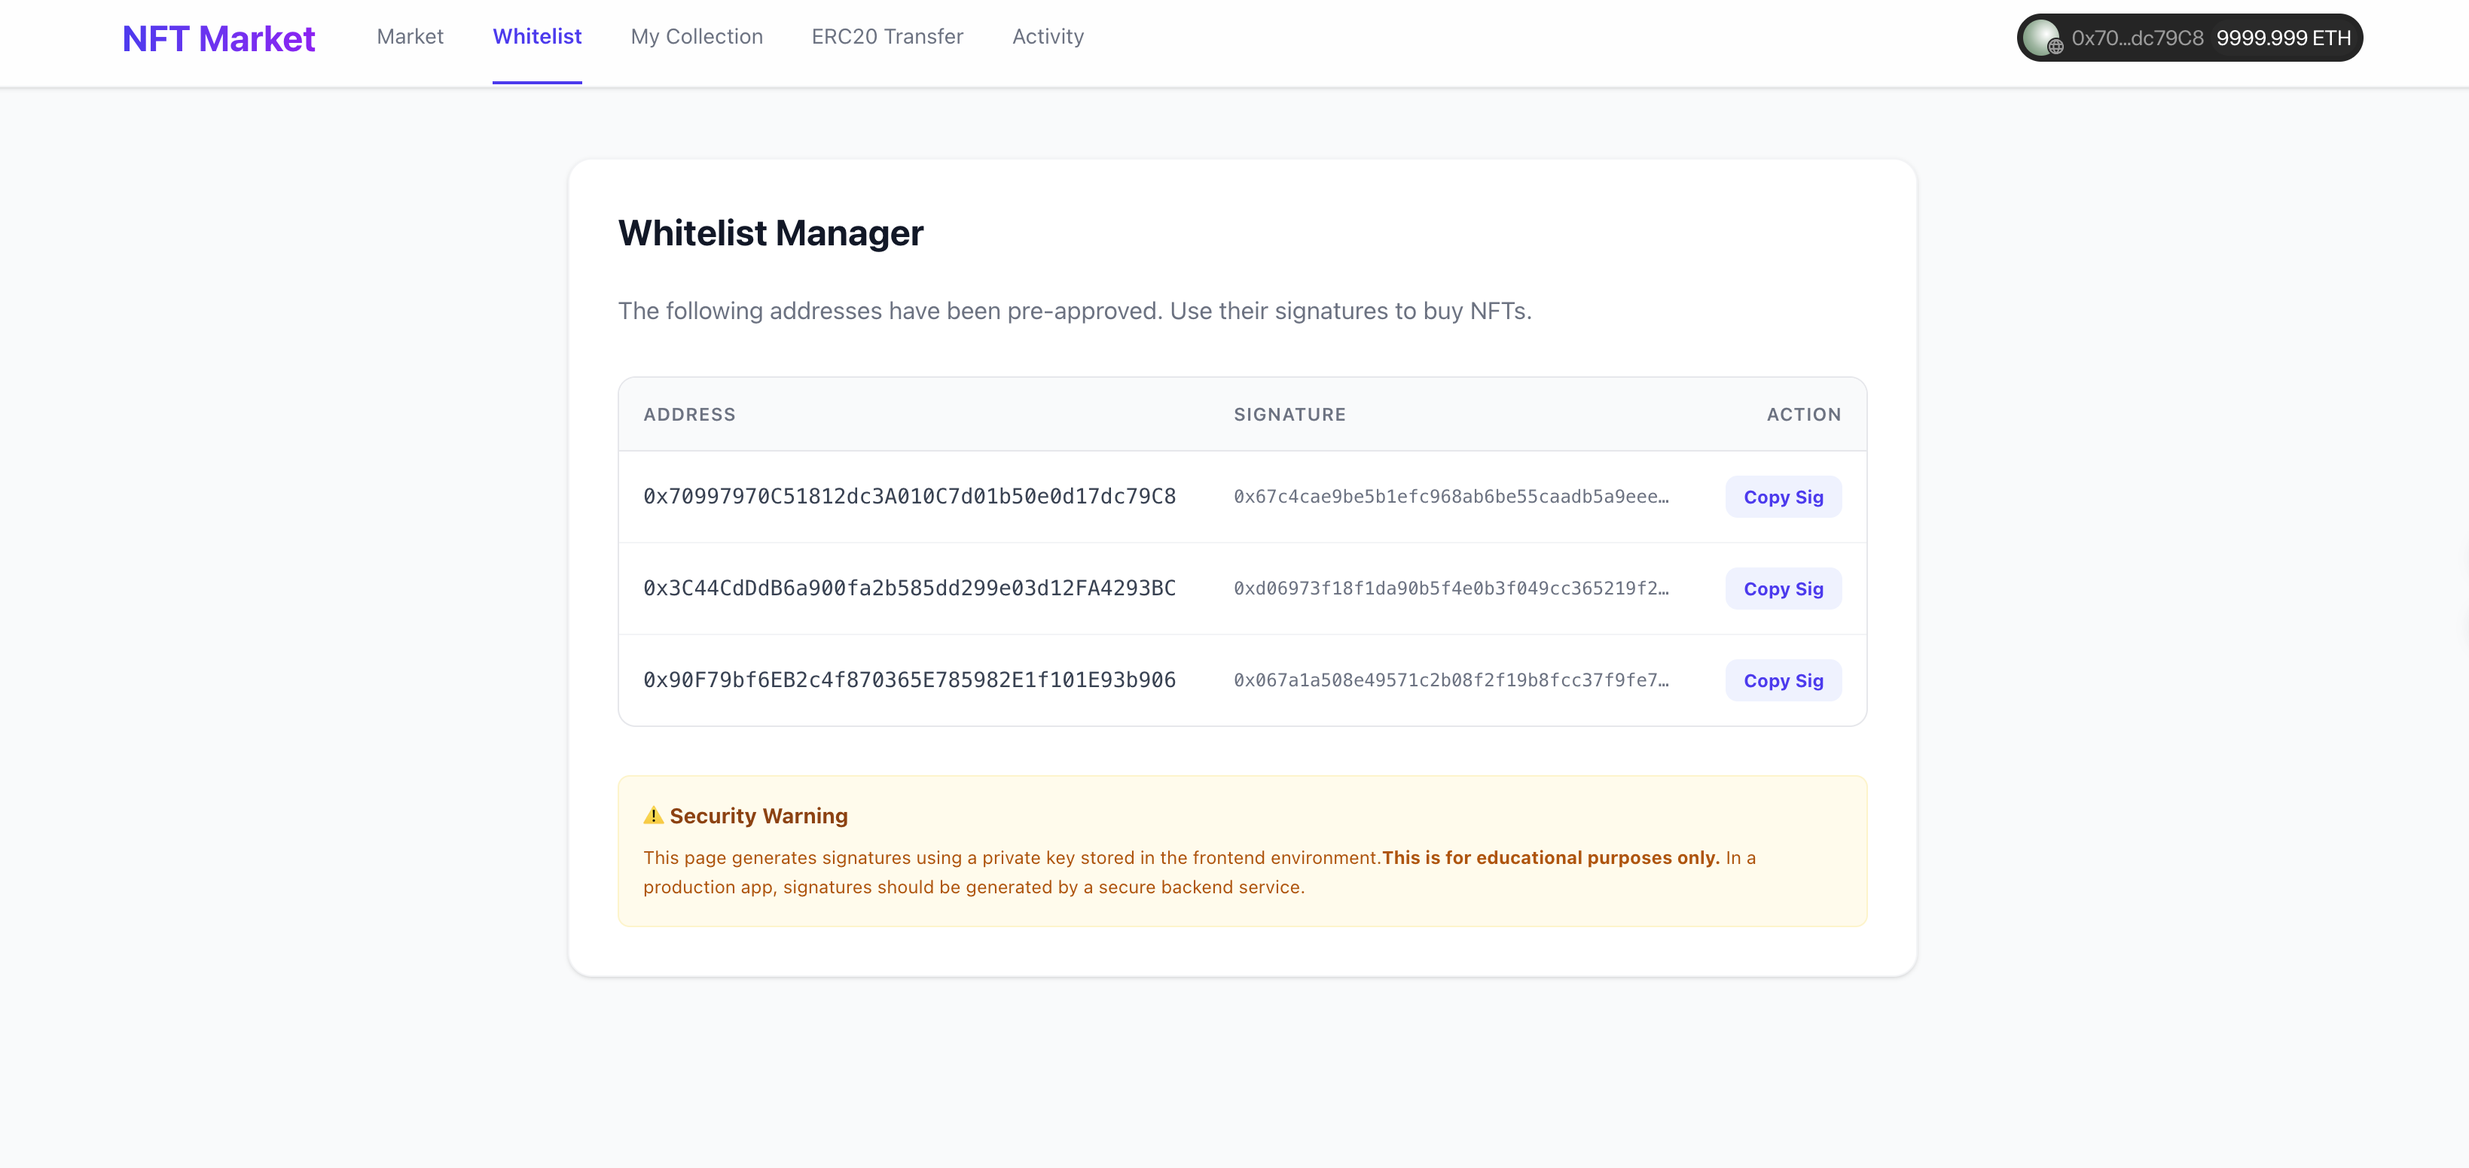
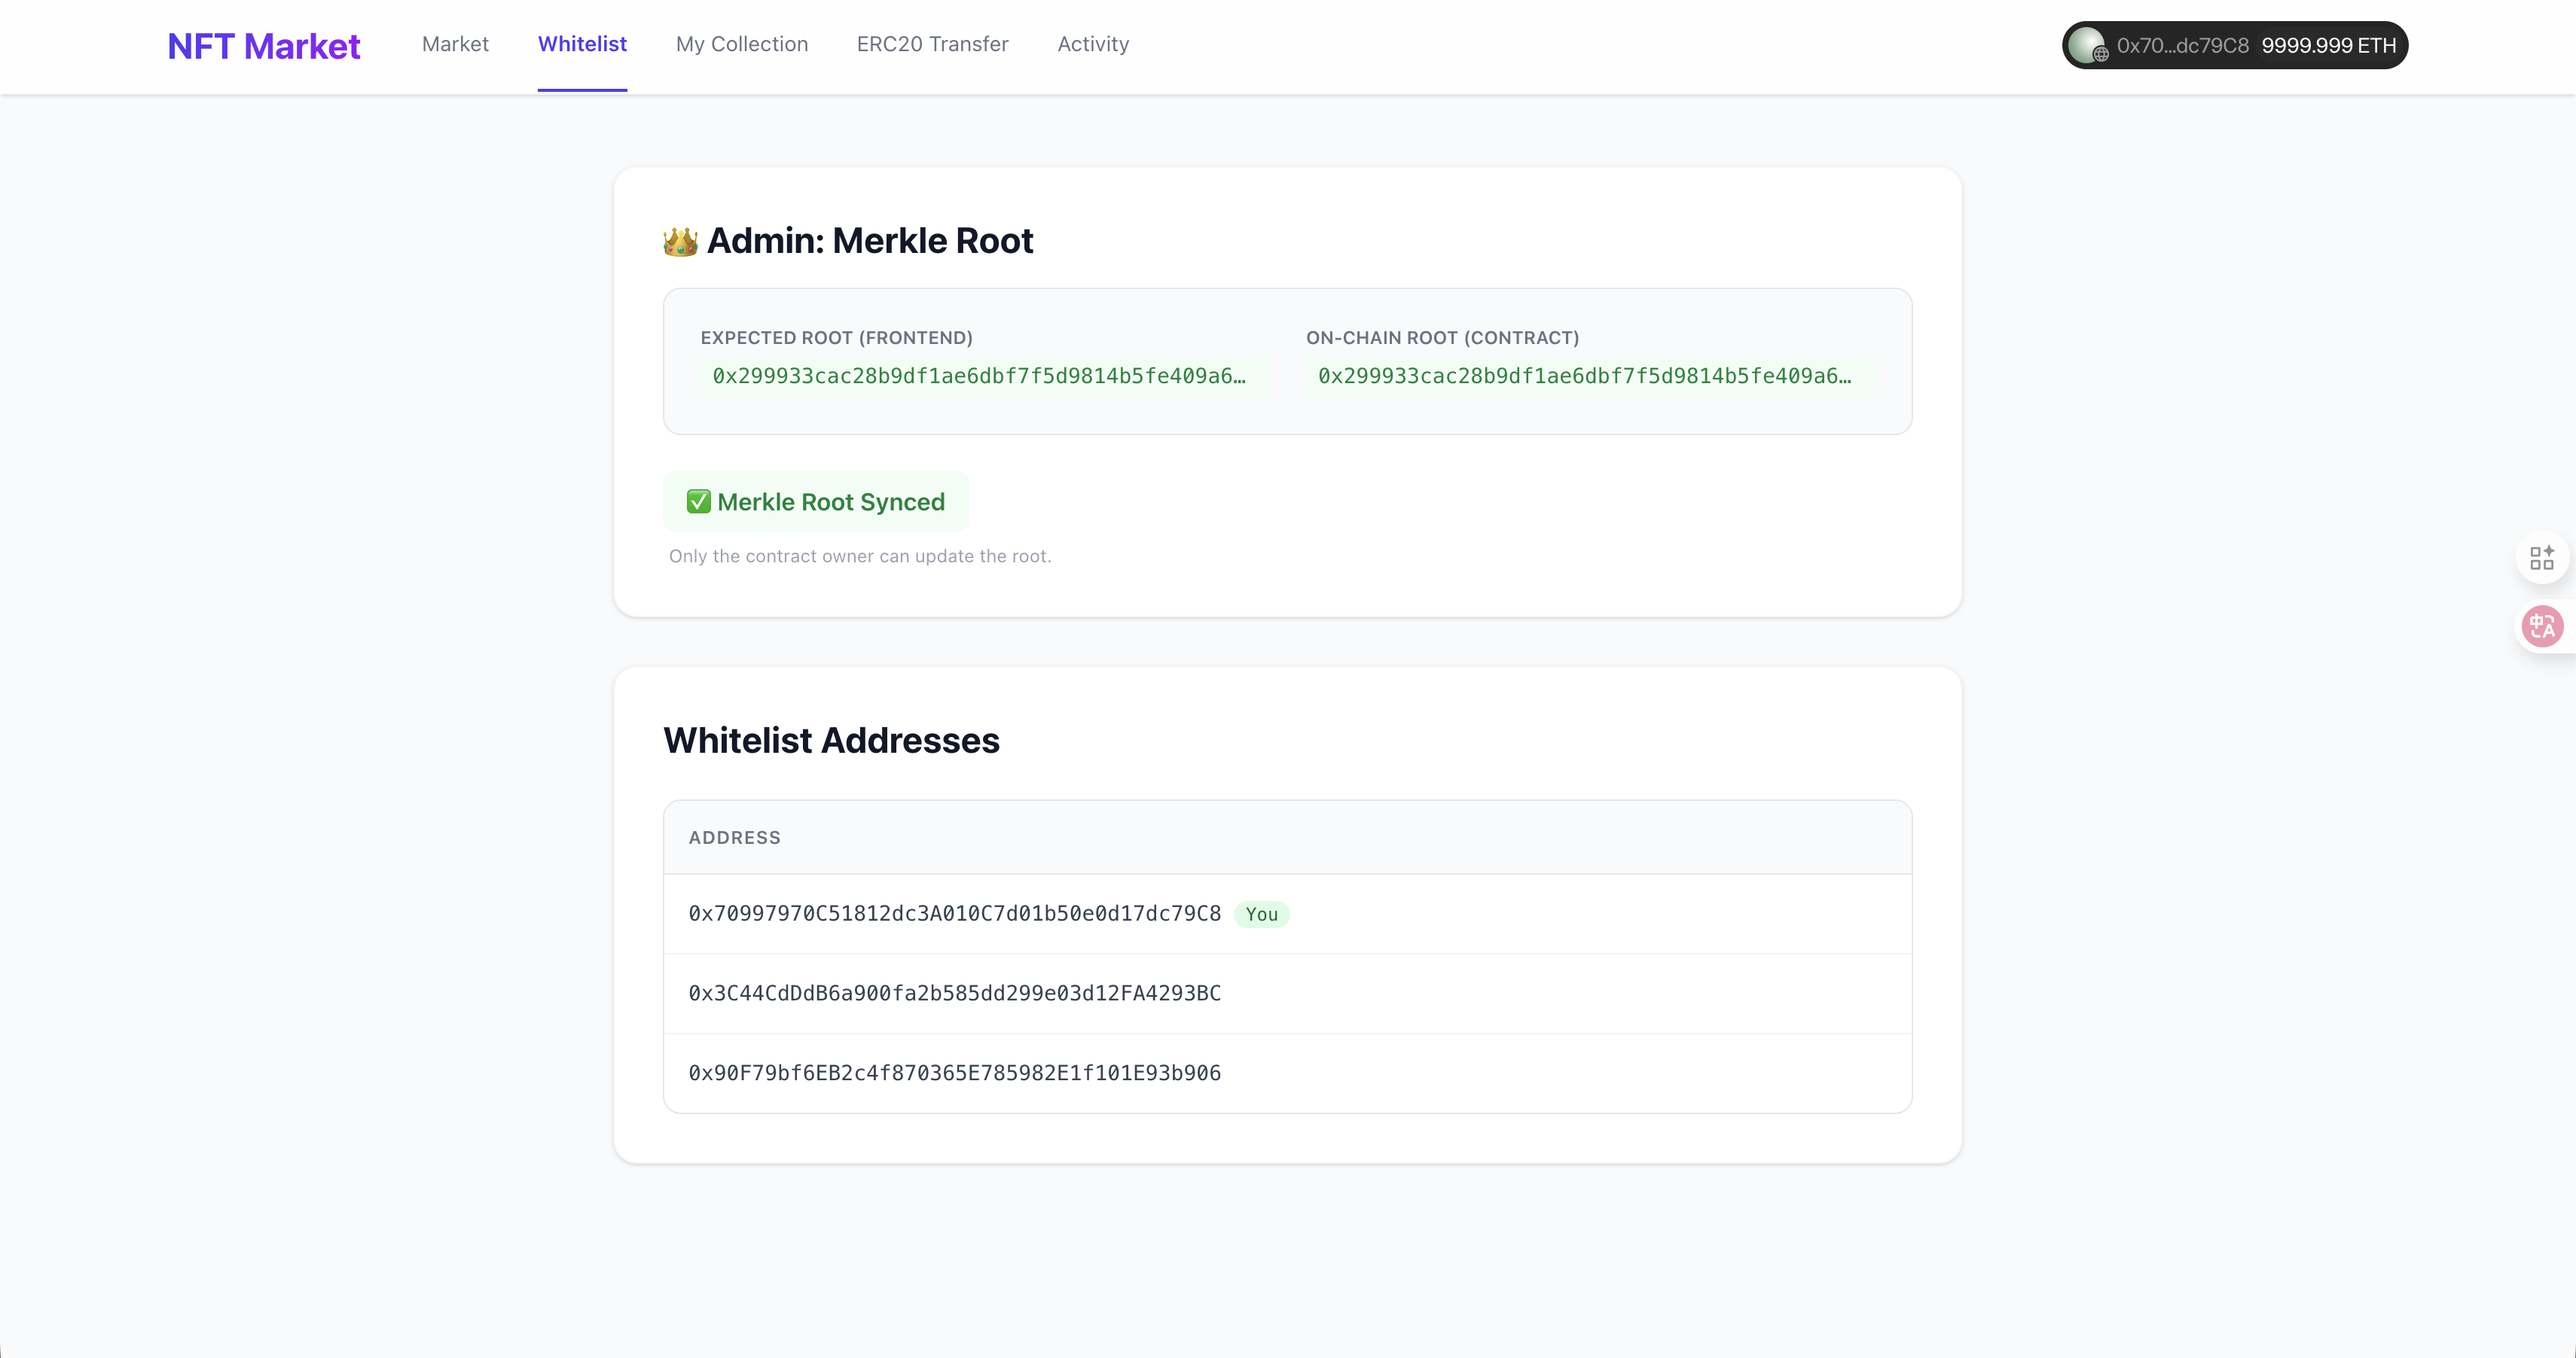
[Add]img and readme.

diff --git a/Day17/AirdopMerkleNFTMarket/README.md b/Day17/AirdopMerkleNFTMarket/README.md
@@ -1,92 +1,185 @@
-# NFT Market with Whitelist
+# AirdopMerkleNFTMarket - 混合式 NFT 市场
 
-This project implements an NFT Marketplace with a whitelist functionality using ECDSA signatures. Only authorized addresses (whitelisted via a signature from the contract owner) can purchase specific NFTs.
+一个支持白名单折扣购买和普通购买的 NFT 市场，使用 Merkle Tree 进行白名单验证，结合 ERC20 Permit 实现无需预先授权的一键购买体验。
 
-## 📸 Screenshots
+## 📸 功能截图
 
-### Buyer WhiteList
-![Buyer WhiteList](./Img/WhiteList.png)
+### Merkle Tree WhiteList
+![Merkle Tree WhiteList](./Img/WhiteList.png)
 
-### Permit Buy
-![Permit Buy](./Img/PermitBuy.png)
+### Multicall Buy
+![Multicall Buy](./Img/MulticallBut.png)
 
-### Activity
-![Activity](./Img/Activity.png)
+---
 
-## Features
+## 🔧 技术实现原理
 
-- **Standard NFT Functions**: List, buy, and view NFTs.
-- **Whitelist Integration**: 
-  - `permitBuy` function in the smart contract allows purchases with a valid signature.
-  - Signatures are generated off-chain by the owner.
-  - Whitelist addresses are configured in the frontend.
-- **Frontend Utility**:
-  - **Whitelist Tab**: Automatically generates signatures for pre-configured addresses using the owner's private key (local dev only).
-  - **Signature Copy**: Easy copy-paste of signatures for testing.
-  - **Verification**: Verifies the signer matches the contract owner.
-- **Error Handling**: Friendly error messages for invalid signatures or unauthorized access.
+### 1. Merkle Tree 白名单验证
 
-## Tech Stack
+```
+                    Root Hash
+                   /         \
+            Hash(A+B)       Hash(C+D)
+           /       \       /       \
+      Hash(A)  Hash(B)  Hash(C)  Hash(D)
+         |        |        |        |
+      Addr1    Addr2    Addr3    Addr4
+```
 
-- **Smart Contracts**: Solidity, Foundry
-- **Frontend**: React, Vite, Tailwind CSS, Wagmi/Viem
+- **Frontend**: 使用 `merkletreejs` 库根据白名单地址列表生成 Merkle Tree
+- **Contract**: 存储 Merkle Root，使用 OpenZeppelin 的 `MerkleProof.verify()` 验证用户提交的 proof
+- **优势**: Gas 效率高，只需存储一个 bytes32 根哈希，而非整个白名单列表
 
-## Getting Started
+### 2. ERC20 Permit (EIP-2612)
 
-### Prerequisites
+传统流程:
+```
+用户 -> approve(spender, amount)  [Tx 1]
+用户 -> buy()                      [Tx 2]
+```
 
-- [Foundry](https://book.getfoundry.sh/getting-started/installation)
-- [Node.js](https://nodejs.org/) & pnpm
+使用 Permit:
+```
+用户 -> 签名 Permit 消息 (链下)
+用户 -> permitPrePay + claimNFT via Multicall [单笔 Tx]
+```
 
-### 1. Contract Setup
+- 用户签署 EIP-712 类型化数据，包含 `owner`, `spender`, `value`, `nonce`, `deadline`
+- 合约调用 `token.permit()` 验证签名并设置授权
+- 节省一笔 approve 交易的 Gas
 
-Navigate to the `Contract` directory:
+### 3. Multicall 批量调用
+
+```solidity
+function multicall(bytes[] calldata data) external returns (bytes[] memory results);
+```
+
+将多个函数调用打包成一笔交易：
+1. `permitPrePay()` - 验证签名并授权代币
+2. `claimNFT()` - 验证白名单并完成购买
+
+### 4. 合约架构
+
+```
+AirdopMerkleNFTMarket (Ownable, Multicall)
+├── token: IERC20 (支付代币)
+├── nft: IERC721 (NFT 合约)
+├── merkleRoot: bytes32 (白名单根)
+├── priceOfNft: mapping(tokenId => price)
+│
+├── list(tokenId, price)           // NFT 上架
+├── setMerkleRoot(root)            // Owner 设置白名单
+├── permitPrePay(...)              // Permit 授权
+├── claimNFT(tokenId, proof)       // 白名单购买 (50%折扣)
+└── buyNFT(tokenId)                // 普通购买 (原价)
+```
+
+---
+
+## 🚀 测试步骤
+
+### 环境准备
+
 ```bash
+# 1. 启动本地区块链
 cd Contract
-forge install
-forge build
-```
-
-Start a local Anvil chain:
-```bash
 anvil
-```
 
-Deploy contracts (example using forge script or manual deploy):
-```bash
-forge script script/Deploy.s.sol --rpc-url http://127.0.0.1:8545 --broadcast
-```
+# 2. 部署合约 (新终端)
+make deploy local
+# 记录输出的合约地址
 
-### 2. Frontend Setup
+# 3. 更新前端配置
+# 编辑 Frontend/src/config/contracts.ts，填入部署的地址
 
-Navigate to the `Frontend` directory:
-```bash
-cd Frontend
+# 4. 启动前端
+cd ../Frontend
 pnpm install
-```
-
-Configure Environment Variables:
-Create a `.env` file in the `Frontend` directory:
-```env
-VITE_PROJECT_ID=your_walletconnect_project_id
-VITE_MARKET_OWNER_KEY=your_anvil_private_key_0
-```
-
-Update Contract Addresses:
-Update `src/config/contracts.ts` with your deployed contract addresses.
-
-Run the development server:
-```bash
 pnpm dev
 ```
 
-## Usage
+### 测试流程
 
-1.  **Configure Whitelist**: Edit `src/config/whitelist.ts` to include the addresses you want to test.
-2.  **Generate Signatures**: 
-    - Go to the **Whitelist** tab in the app.
-    - Copy the signature for your test address.
-3.  **Buy NFT**:
-    - Switch your wallet to the whitelisted address.
-    - Go to **Market** -> Select an NFT -> Click **Buy (Whitelist)**.
-    - Paste the signature and confirm.
+#### Step 1: 连接钱包
+1. 打开 MetaMask，添加本地网络 (RPC: `http://127.0.0.1:8545`, Chain ID: `31337`)
+2. 导入 Anvil 测试账户:
+   - Account #0 (Owner): `0xf39Fd6e51aad88F6F4ce6aB8827279cffFb92266`
+   - Account #1 (白名单用户): `0x70997970C51812dc3A010C7d01b50e0d17dc79C8`
+
+#### Step 2: 设置 Merkle Root (Owner)
+1. 使用 Account #0 连接网站
+2. 进入 `/whitelist` 页面
+3. 点击 **"⚡ Update Merkle Root"** 按钮
+4. 确认交易
+
+#### Step 3: 上架 NFT (Owner)
+1. 进入首页 `/` (My Collection)
+2. 点击 **"Approve Market"** 授权市场合约
+3. 点击 **"List for Sale"**，输入价格 (如 `200`)
+4. 确认交易
+
+#### Step 4: 白名单购买 (50% 折扣)
+1. 切换到 Account #1 (白名单用户)
+2. 进入 `/market` 页面
+3. 找到上架的 NFT，点击 **"Sign Permit & Claim"**
+4. MetaMask 会弹出签名请求 (EIP-712)，确认签名
+5. 确认交易，以 50% 折扣价购买成功
+
+#### Step 5: 普通购买 (原价)
+1. 使用非白名单账户连接
+2. 进入 `/market` 页面
+3. 点击 **"Approve Token & Buy"** (首次需授权)
+4. 再次点击 **"Buy Normal"** 完成原价购买
+
+---
+
+## 📁 项目结构
+
+```
+AirdopMerkleNFTMarket/
+├── Contract/
+│   ├── src/
+│   │   ├── AirdopMerkleNFTMarket.sol  # 主合约
+│   │   ├── MyPermitToken.sol          # ERC20 Permit 代币
+│   │   └── BaseERC721.sol             # NFT 合约
+│   ├── script/
+│   │   └── DeployAirdropMerkleNFTMarket.s.sol
+│   ├── test/
+│   └── Makefile
+│
+├── Frontend/
+│   ├── src/
+│   │   ├── components/
+│   │   │   ├── NFTCard.tsx            # NFT 卡片 (购买逻辑)
+│   │   │   └── Header.tsx
+│   │   ├── pages/
+│   │   │   ├── Market.tsx             # 市场页面
+│   │   │   ├── Whitelist.tsx          # 白名单管理
+│   │   │   └── Profile.tsx            # 个人收藏
+│   │   ├── config/
+│   │   │   ├── contracts.ts           # 合约地址与 ABI
+│   │   │   └── whitelist.ts           # 白名单地址列表
+│   │   └── wagmi.ts                   # Wagmi 配置
+│   └── package.json
+│
+└── README.md
+```
+
+---
+
+## 🛠 技术栈
+
+| 层级 | 技术 |
+|------|------|
+| 智能合约 | Solidity, OpenZeppelin, Foundry |
+| 前端框架 | React 19, TypeScript, Vite |
+| 区块链交互 | Wagmi v2, Viem |
+| 钱包连接 | Reown AppKit |
+| 样式 | TailwindCSS v4 |
+| Merkle Tree | merkletreejs, keccak256 |
+
+---
+
+## 📜 License
+
+MIT
